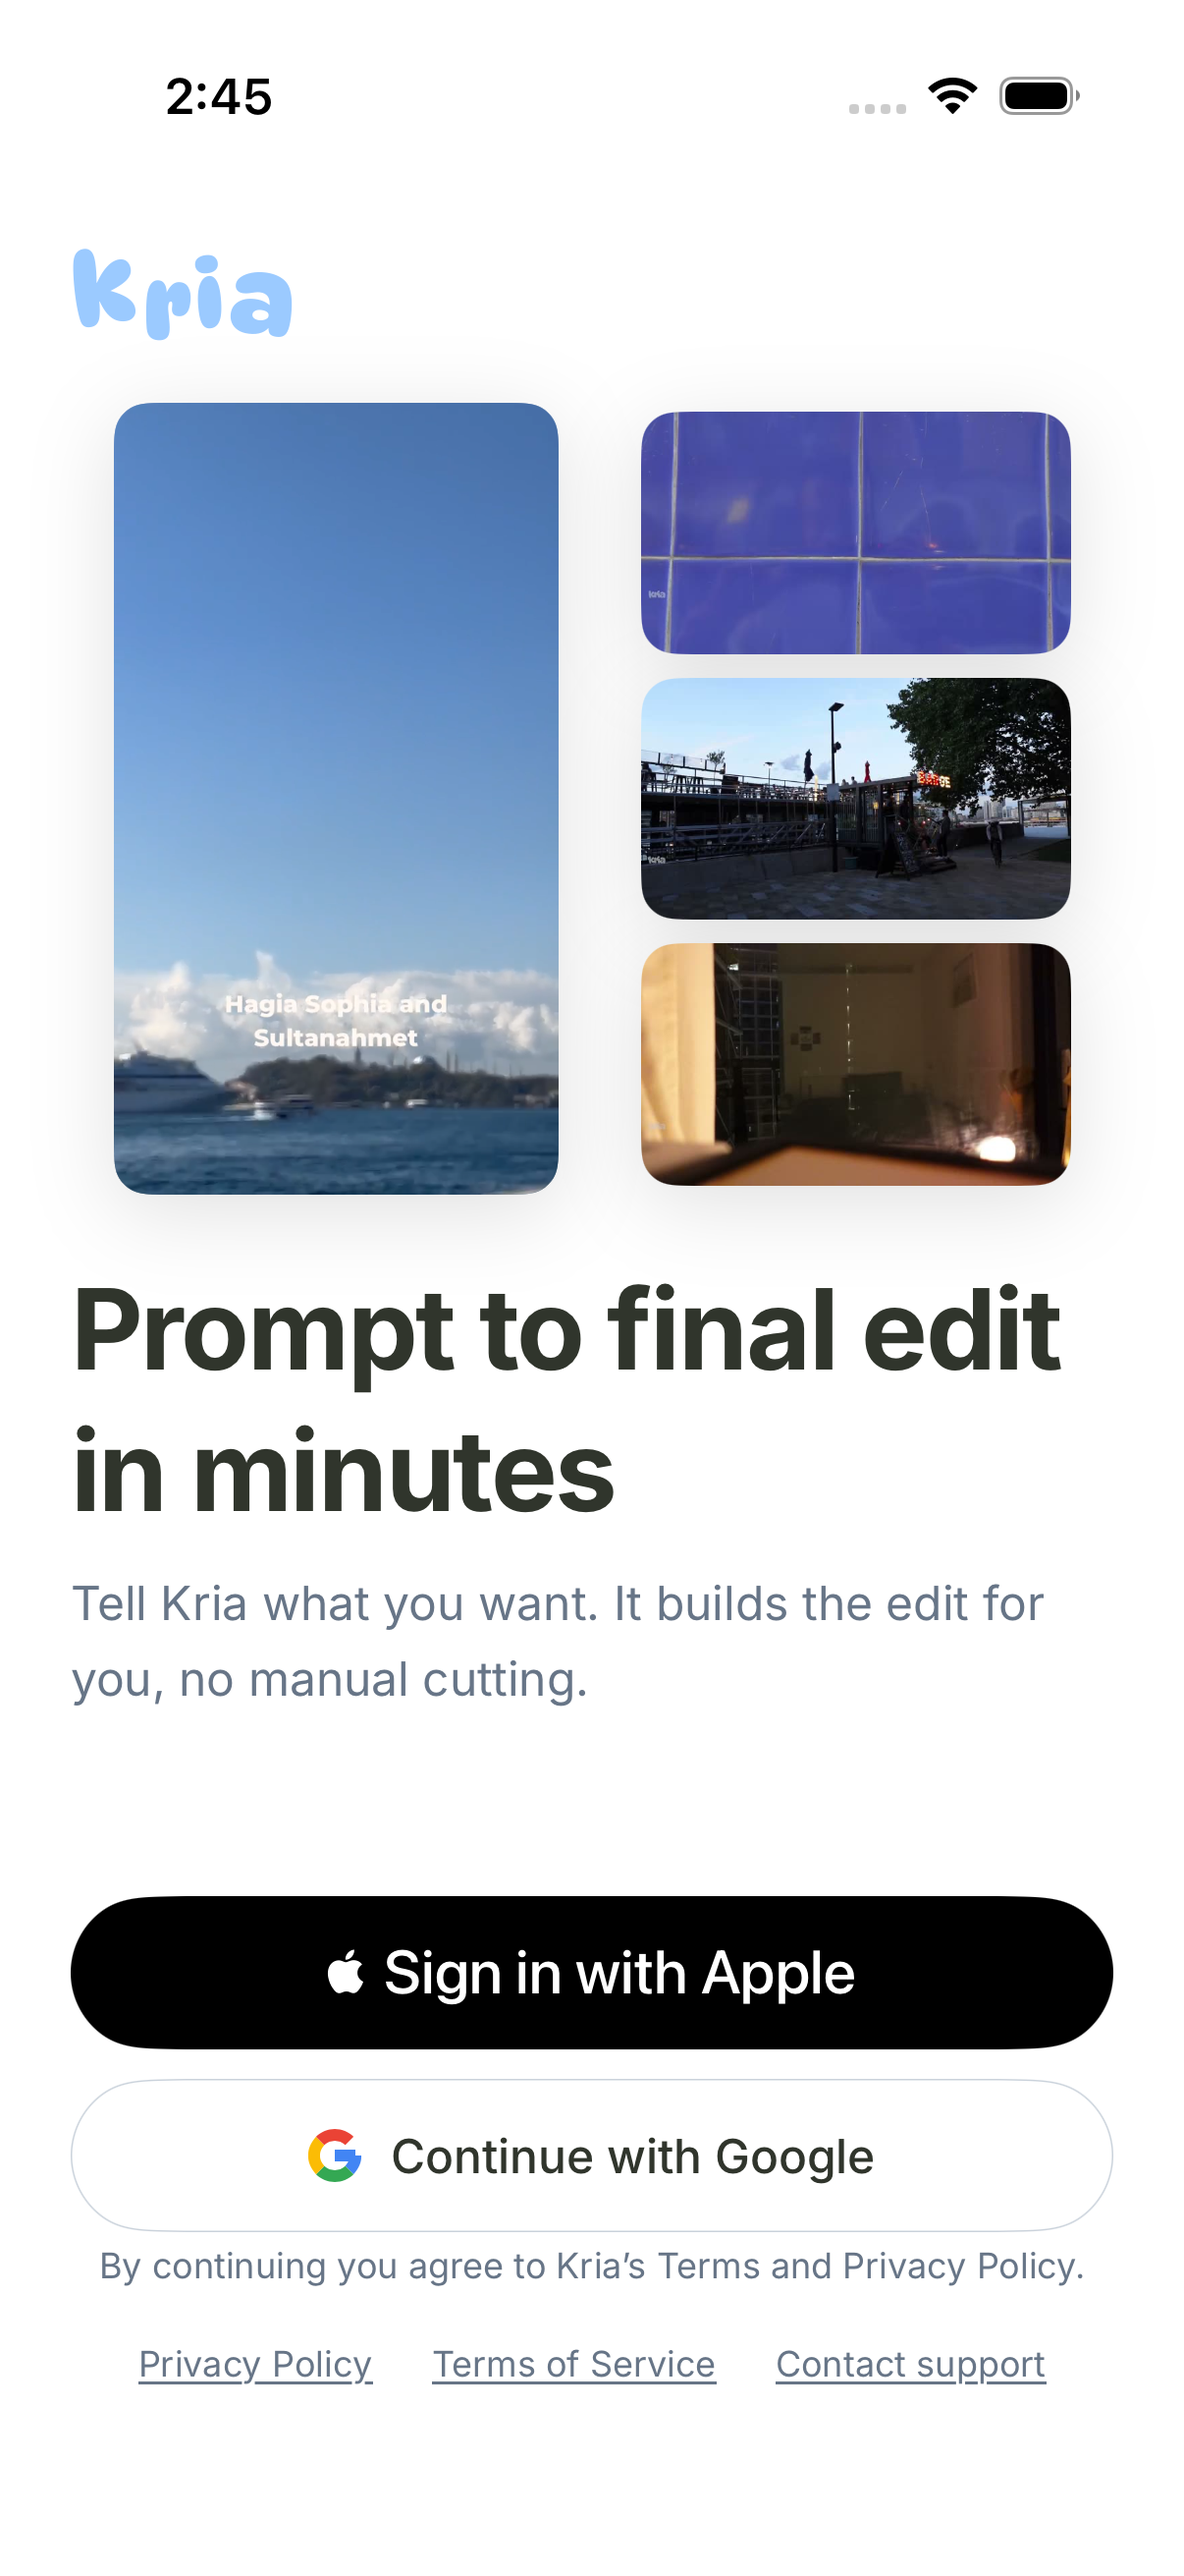
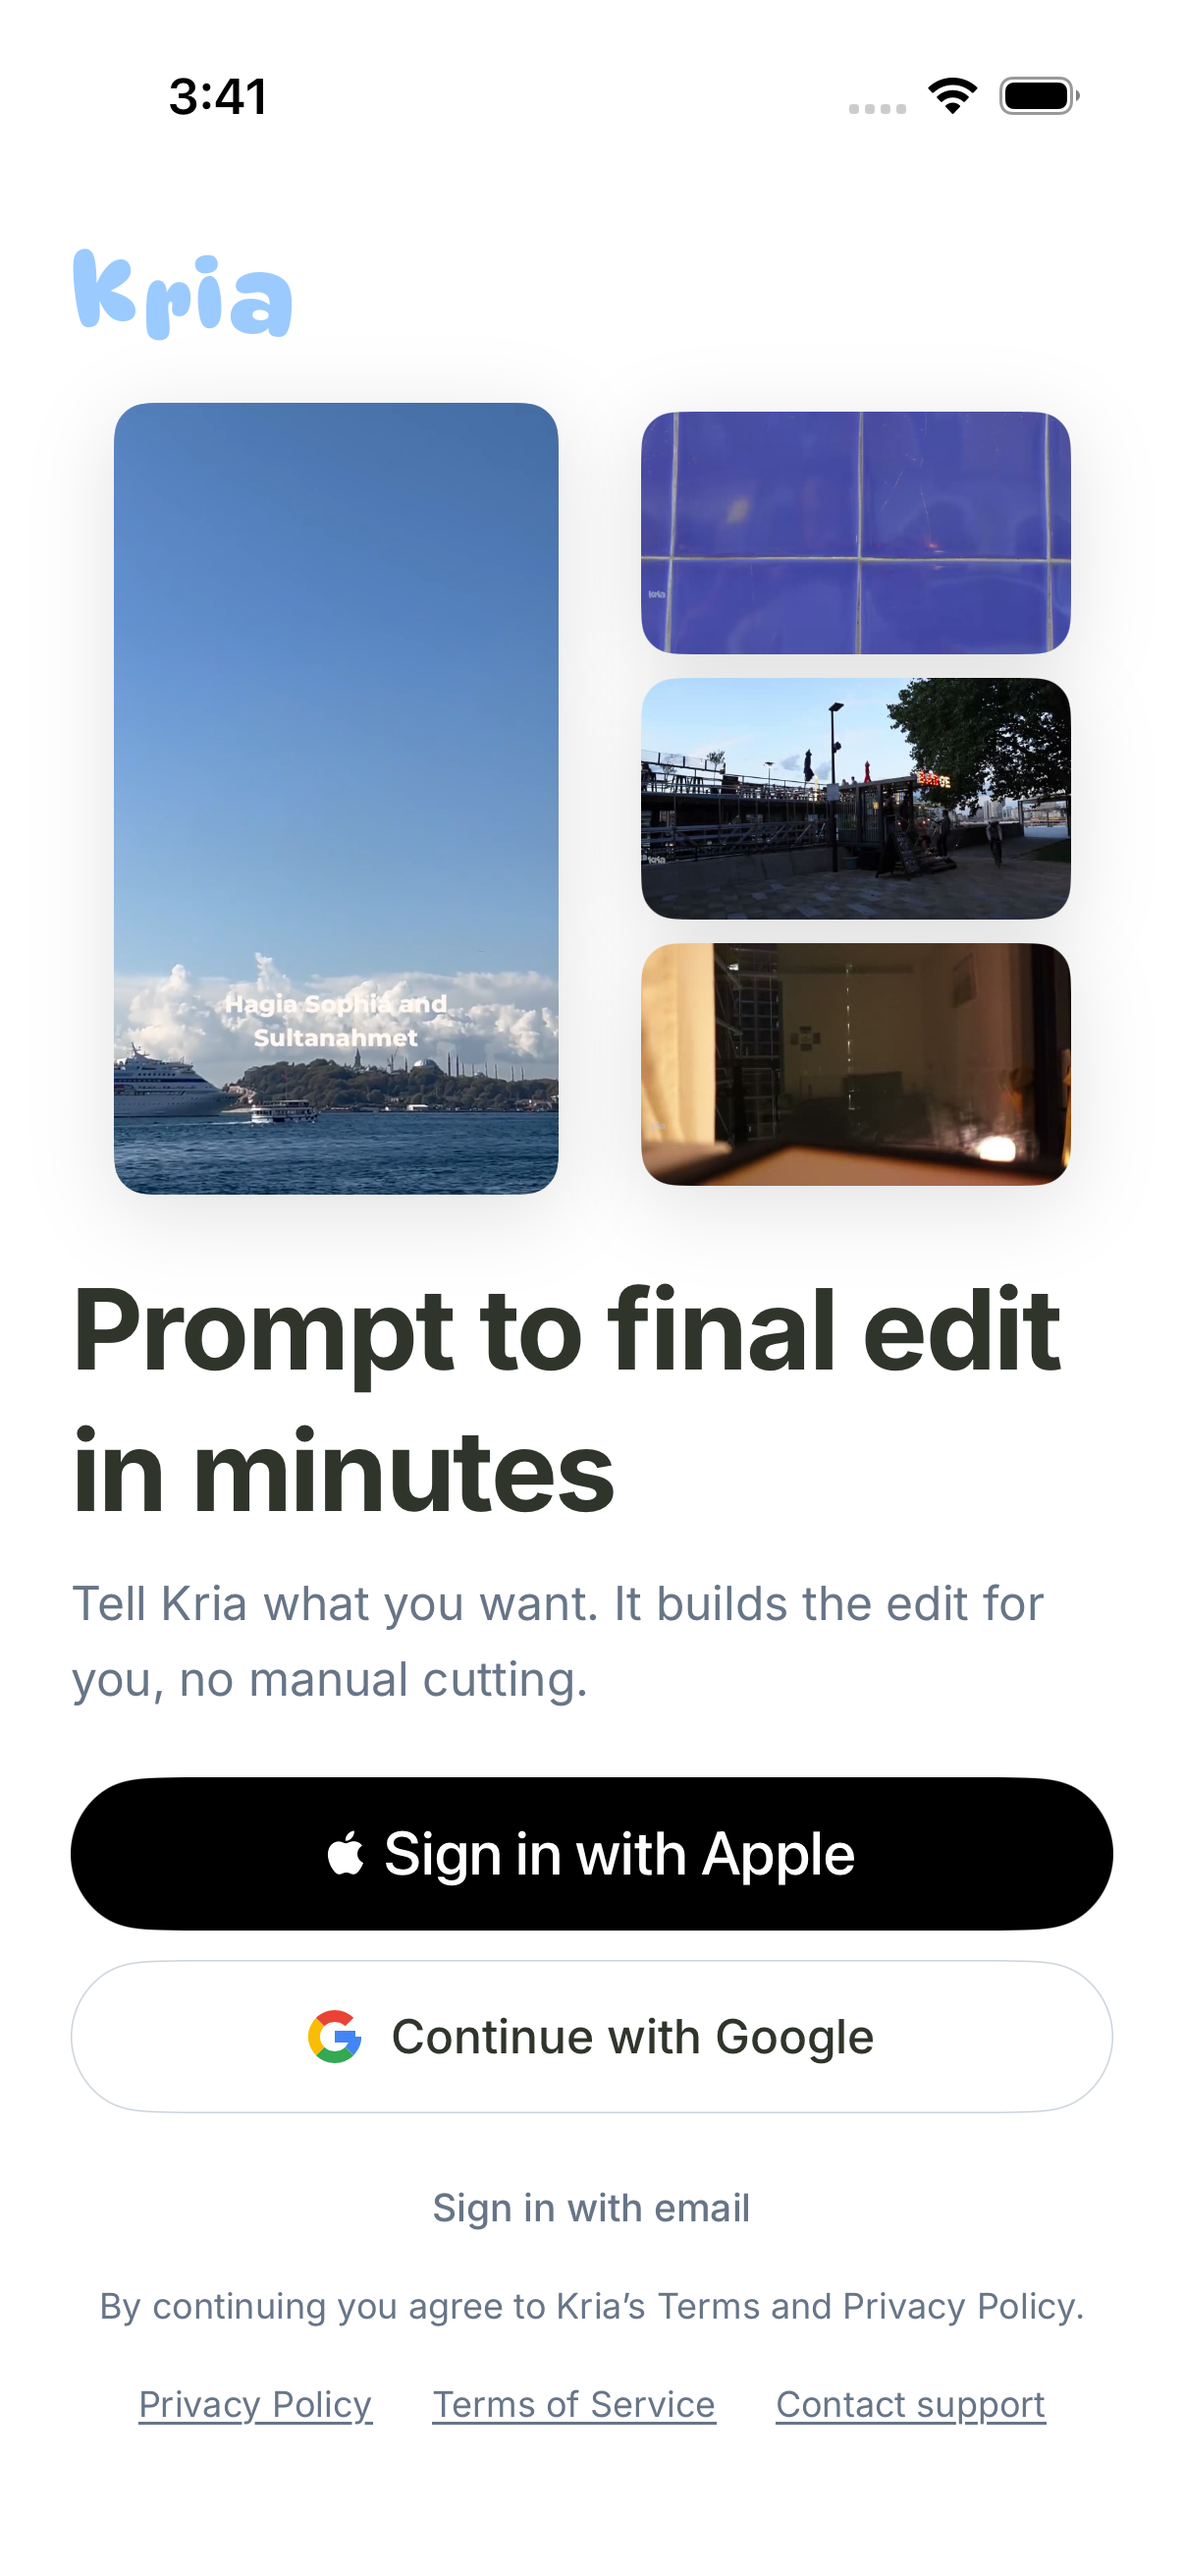
fix(ios): retain production email reviewer sign-in

Changed region(s): [[0.0614, 0.6796, 0.9511, 0.9577], [0.092, 0.4016, 0.4602, 0.4634], [0.1534, 0.0309, 0.2454, 0.0618]]

diff --git a/src/apps/ios/Kria/Features/SignInView.swift b/src/apps/ios/Kria/Features/SignInView.swift
@@ -163,14 +163,11 @@ struct SignInView: View {
             .accessibilityLabel("Continue with Google")
             .accessibilityIdentifier("signin.google")
 
-            #if DEV_AUTH
             Button("Sign in with email") { showsReviewerSignIn = true }
                 .font(KriaFont.body(13).weight(.medium))
                 .foregroundStyle(KriaColor.zinc)
                 .frame(maxWidth: .infinity, minHeight: 44)
                 .accessibilityIdentifier("signin.email")
-
-            #endif
 
             if AppConfiguration.current.allowsDevelopmentAuth {
                 Button {

diff --git a/src/apps/ios/Tests/KriaUITests/ProductionSignInUITests.swift b/src/apps/ios/Tests/KriaUITests/ProductionSignInUITests.swift
@@ -9,11 +9,10 @@ import XCTest
         #endif
         app.launch()
         XCTAssertTrue(app.buttons["signin.google"].waitForExistence(timeout: 10))
-        #if DEV_AUTH
         XCTAssertTrue(app.buttons["signin.email"].exists)
+        #if DEV_AUTH
         XCTAssertTrue(app.buttons["signin.local"].exists)
         #else
-        XCTAssertFalse(app.buttons["signin.email"].exists)
         XCTAssertFalse(app.buttons["signin.local"].exists)
         #endif
         let screenshot = XCTAttachment(screenshot: app.screenshot())

diff --git a/docs/reviews/featured-edit-previews/README.md b/docs/reviews/featured-edit-previews/README.md
@@ -9,11 +9,8 @@ aspect ratio without black bars. New Chat plays only the centered video card.
 Slider holds for 1.2 seconds and swipes for 0.35 seconds. Narrated keeps its
 existing image because the user deferred a replacement.
 
-The user also requested removal of production email sign-in. `DEV_AUTH` now gates
-the email link. The existing local-account guard remains unchanged. Production
-Release has neither development entry point. This removes the entry used by
-KRI-111 for Apple review, so review access and App Store Connect review notes
-need a replacement before the next Apple review submission.
+The final user instruction retains production email sign-in so the KRI-111 Apple
+reviewer demo form stays reachable. Local-account access remains development-only.
 
 ## Evidence
 
@@ -23,8 +20,11 @@ The report documents retain unedited `xcresulttool get test-results summary` JSO
 - `native-integrated.md` records four focused native checks after merging current main.
 - `native-debug-final.md` covers all ten focused Debug UI checks, including
   four-edit sequencing, centered playback, Slider timing/pause, sign-in and tile sizes.
-- `production-signin.md` verifies the normal Release app hides both development links.
+- `production-signin.md` verifies the final Release app shows email sign-in and hides local-account access.
 - `native-unit.md` records 2,087 tests, including 26 explicit skips, with no failures.
+
+Earlier Debug and integration reports predate the final email-entry restoration.
+The Release report and screenshot verify the final sign-in state.
 
 The native evidence is from an iPhone 17 Pro simulator on iOS 26.5. It does not
 prove a physical-device build, an App Store review, or a production rollout.
@@ -49,7 +49,7 @@ shared preview dimensions.
 For the production sign-in check, use the `Kria Production SignIn Check` scheme.
 It uses Release and includes only the production sign-in UI check, so Debug-only
 unit-test helpers are excluded. Neither `DEBUG` nor `DEV_AUTH` is added. The check
-launches the normal Release app and asserts that both development links are absent.
+launches the normal Release app and asserts that email sign-in is present and local-account access is absent.
 
 The Release UI verification used code-coverage instrumentation and testable module
 exports to reuse the simulator build. These settings do not define `DEBUG` or

diff --git a/docs/runbooks/testflight.md b/docs/runbooks/testflight.md
@@ -107,12 +107,6 @@ reviewer notes as environment variables.
 
 ## Apple Beta App Review demo account
 
-The current iPhone source hides **Sign in with email** in builds without
-`DEV_AUTH`, including production Release. The reviewer endpoint remains unchanged,
-but the production app has no entry point to its form. The demo-login instructions
-below describe earlier builds. Replace the review-access path and update the
-App Store Connect review notes before the next Apple review submission.
-
 Apple rejected build 0.1.0 (46) on 2026-09-16/17 under Guideline 2.1(a): a
 sign-in-gated app must give reviewers a working demo account rather than relying
 on Sign in with Apple/Google. KRI-111 fixed this by adding a flag-gated reviewer
@@ -173,7 +167,7 @@ command above before the next review pass.
 `fly machine restart <id>`. Credentials live only in Fly secrets and the GitHub
 environment — never in the repo or app bundle.
 
-Historical `KRIA_BETA_REVIEW_NOTES` for builds with the production email entry (GitHub environment variable):
+Recommended `KRIA_BETA_REVIEW_NOTES` (GitHub environment variable):
 
 > Sign in with email using the demo credentials below (tap "Sign in with email"
 > under the Google button). Accept the AI data-sharing screen. The Gallery

diff --git a/docs/reviews/featured-edit-previews/production-signin.md b/docs/reviews/featured-edit-previews/production-signin.md
@@ -1,4 +1,7 @@
-# Production signin
+# Production sign-in
+
+Final Release check after the user retained email sign-in for Apple reviewer access.
+Email is present. Local-account access is absent. No DEV_AUTH or DEBUG condition was added.
 
 Unedited JSON from `xcresulttool get test-results summary`.
 
@@ -28,11 +31,11 @@ Unedited JSON from `xcresulttool get test-results summary`.
   "environmentDescription" : "Kria Production SignIn Check · Built with macOS 26.4.1",
   "expectedFailures" : 0,
   "failedTests" : 0,
-  "finishTime" : 1793198758.191,
+  "finishTime" : 1793202096.415,
   "passedTests" : 1,
   "result" : "Passed",
   "skippedTests" : 0,
-  "startTime" : 1793198703.158,
+  "startTime" : 1793201412.215,
   "statistics" : [
 
   ],
@@ -45,4 +48,5 @@ Unedited JSON from `xcresulttool get test-results summary`.
   ],
   "totalTestCount" : 1
 }
+
 ```

diff --git a/docs/reviews/featured-edit-previews/acceptance.md b/docs/reviews/featured-edit-previews/acceptance.md
@@ -4,7 +4,7 @@ Expectations supplied by the creator before implementation.
 
 ```json
 {
-  "request_provenance": "User instructions in this Codex chat, 2026-10-25 through 2026-10-28; KRI-638 and KRI-643. Production email-link removal explicitly requested on 2026-10-28.",
+  "request_provenance": "User instructions in this Codex chat, 2026-10-25 through 2026-10-28; KRI-638 and KRI-643. The final instruction on 2026-10-28 retains production email sign-in for Apple reviewer access.",
   "onboarding_order": [
     "bosphorus",
     "lisbon",
@@ -17,7 +17,8 @@ Expectations supplied by the creator before implementation.
   "slider_transition_seconds": 0.35,
   "production_signin": [
     "Apple",
-    "Google"
+    "Google",
+    "email reviewer form"
   ],
   "development_signin": [
     "Apple",
